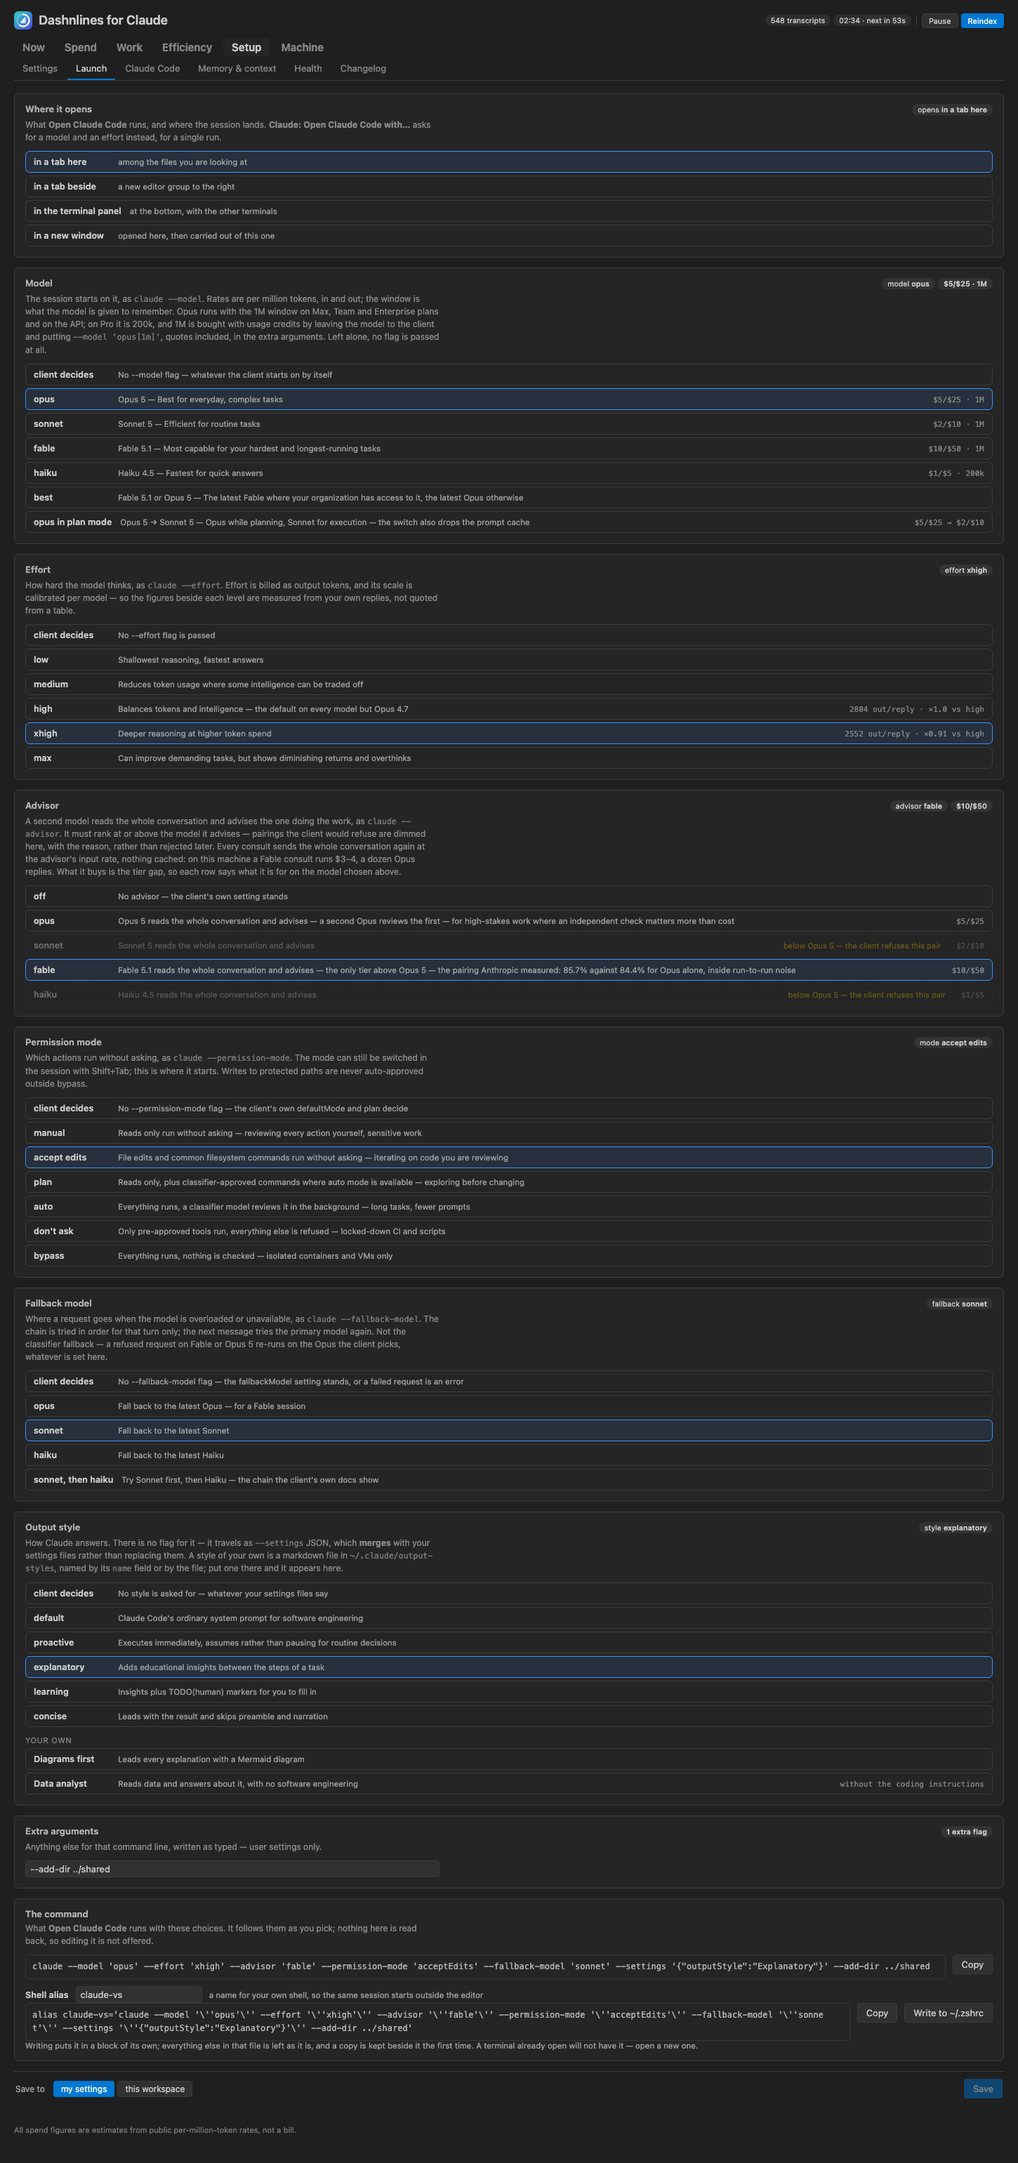
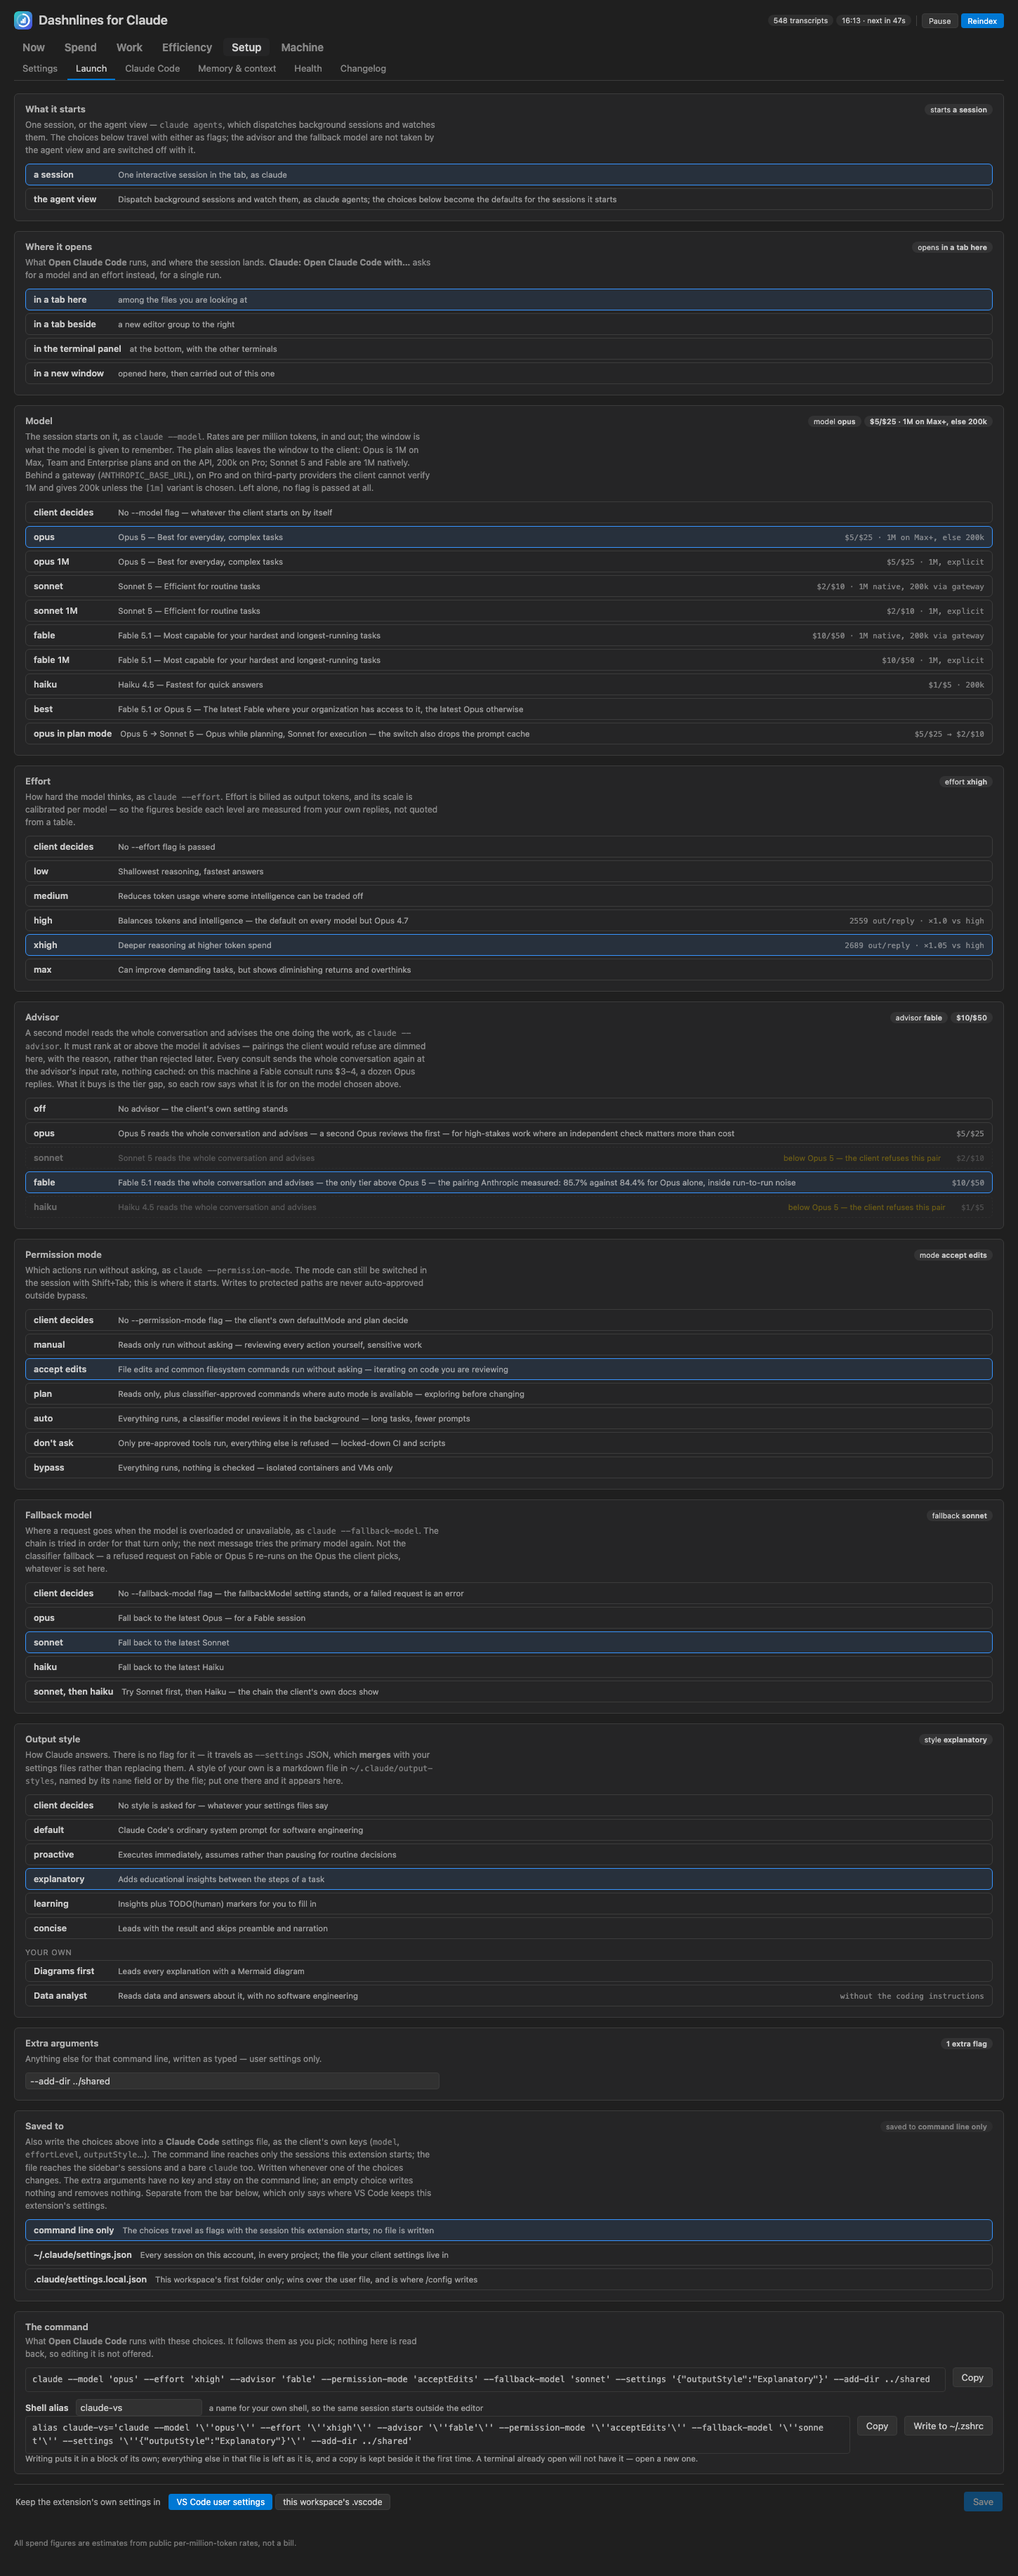
feat(release): 0.56.0 — what the button starts, and choices pinned into the client's files
Stamp [Unreleased] as 0.56.0, bump both manifests, and re-shoot the two
Launch screenshots: the tab gained the "What it starts" and "Saved to"
panels and the README already described ten of them.

Claude-Session: https://claude.ai/code/session_01RRHPHSQy134iuqZzEQwo8V

diff --git a/CHANGELOG.md b/CHANGELOG.md
@@ -5,7 +5,7 @@ Notable changes, newest first. The format follows
 [semver](https://semver.org/), with the VS Code convention that an **odd** minor
 is a pre-release and an **even** one is a stable release.
 
-## [Unreleased]
+## [0.56.0] — 2026-09-07
 
 ### Added
 
